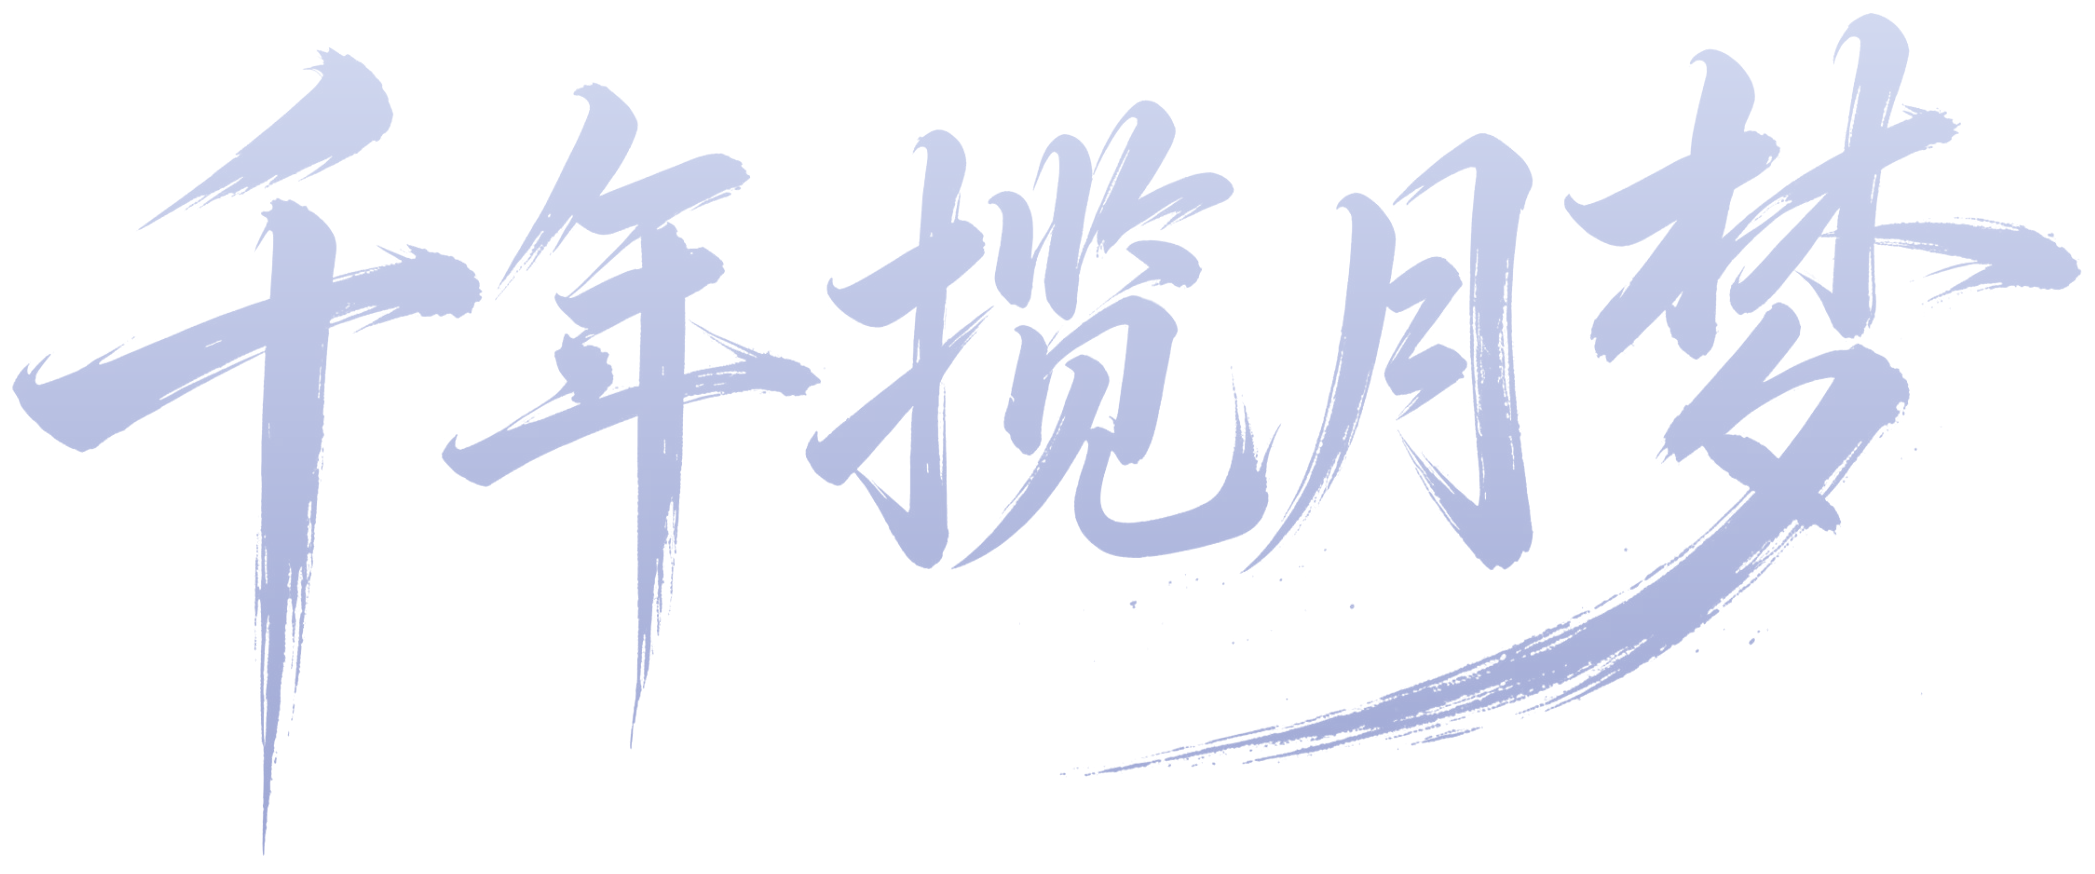
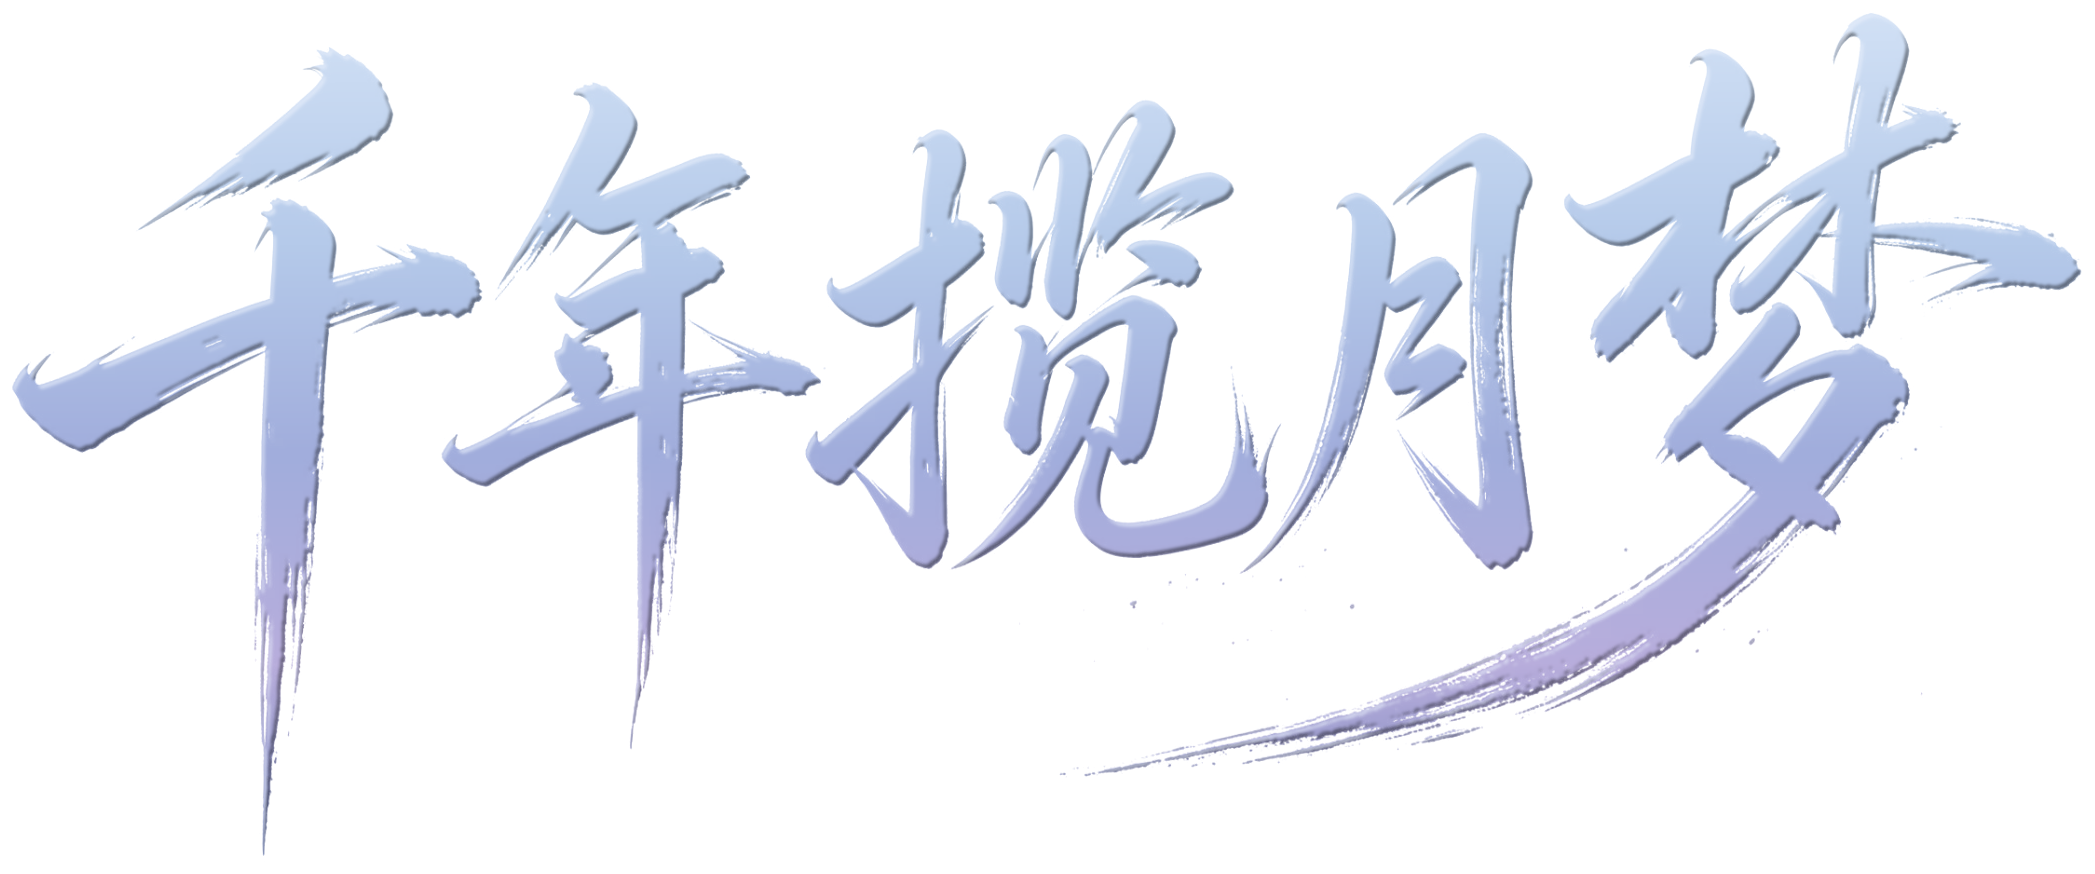
Add moonlit gradient, fine bevel and soft depth to title and journey button

diff --git a/game.js b/game.js
@@ -16,7 +16,7 @@
  function save(){saved={version:3,index,stepId:STORY[index].id,completed:[...completed].map(n=>STORY[n].id),mission:{...mission}};try{localStorage.setItem(SAVE,JSON.stringify(saved))}catch{}}
  function enter(mode){cleanup();cleanup=()=>{};view=mode;app.dataset.mode=mode;main.innerHTML='';window.scrollTo(0,0)}
  function footer(chapter){$('#location').textContent=LOCATIONS[World.scene];$('#chapter-label').textContent=chapter===undefined?'东方月境 · 互动叙事':`第${nums[chapter]}章 · ${CHAPTERS[chapter].split('，')[0]}`;$('#chapter-progress').innerHTML=chapter===undefined?'':nums.map((n,i)=>`<i class="${i<=chapter?'active':''}" aria-label="第${n}章"></i>`).join('');$('#page-count').textContent=chapter===undefined?'一场跨越千年的赴约':`${index+1} / ${STORY.length}`}
- function home(){enter('home');World.set('cover');footer();$('#page-count').textContent='中国探月历程 · 虚构互动叙事';const finished=completed.has(STORY.length-1);main.innerHTML=`<section class="home"><h1 class="home-title"><img src="assets/ui/title-calligraphy.webp?v=moon-ink-20261016" alt="千年揽月梦" width="2095" height="874" fetchpriority="high" draggable="false"></h1><div class="actions"><button class="primary" id="start">${finished?'再赴星河':saved?'继续旅程':'开启旅程'}<svg class="journey-moon" viewBox="0 0 24 24" aria-hidden="true"><path d="M16.8 3.6A9 9 0 1 0 20.4 17 8.2 8.2 0 0 1 16.8 3.6Z"/></svg></button>${saved&&!finished?'<button class="text-button" id="restart">从头开始</button>':''}</div></section>`;
+ function home(){enter('home');World.set('cover');footer();$('#page-count').textContent='中国探月历程 · 虚构互动叙事';const finished=completed.has(STORY.length-1);main.innerHTML=`<section class="home"><h1 class="home-title"><img src="assets/ui/title-calligraphy.webp?v=moon-relief-20261016" alt="千年揽月梦" width="2095" height="874" fetchpriority="high" draggable="false"></h1><div class="actions"><button class="primary" id="start">${finished?'再赴星河':saved?'继续旅程':'开启旅程'}<svg class="journey-moon" viewBox="0 0 24 24" aria-hidden="true"><path d="M16.8 3.6A9 9 0 1 0 20.4 17 8.2 8.2 0 0 1 16.8 3.6Z"/></svg></button>${saved&&!finished?'<button class="text-button" id="restart">从头开始</button>':''}</div></section>`;
   $('#start').onclick=()=>{if(finished){restart();return}index=saved?saved.index:0;render()};if($('#restart'))$('#restart').onclick=restart;
  }
  function restart(){index=0;mission={zone:0};completed.clear();save();render()}

diff --git a/style.css b/style.css
@@ -33,11 +33,13 @@ body .app{position:relative;z-index:1}
 
 /* 首页只保留主标题、旅程按钮与声音开关。 */
 .home-title{width:min(900px,76vw);max-width:100%;line-height:0;margin:0 auto 34px}
-.home-title img{display:block;width:100%;height:auto;filter:drop-shadow(0 3px 12px #100b26aa)}
+.home-title img{display:block;width:100%;height:auto;filter:drop-shadow(0 2px 0 #455478b3) drop-shadow(0 6px 7px #0b173c80) drop-shadow(0 0 16px #bed4ff18)}
 .app[data-mode=home] main{min-height:0;align-items:center}
 .home .actions{justify-content:center}
 .home #start{min-width:206px;gap:24px;padding:14px 28px;background:linear-gradient(110deg,#182943a6,#29375170);border:1px solid #c6d2ef70;border-radius:3px;color:#d6dff3;font-family:"Songti SC","STSong","SimSun",serif;letter-spacing:.18em;text-shadow:0 1px 5px #101c36;box-shadow:inset 0 1px 0 #e0e8ff12,0 4px 20px #08152930;transition:background .25s,border-color .25s,box-shadow .25s}
-.home #start:hover:not(:disabled){background:linear-gradient(110deg,#273d5cba,#38476790);border-color:#d7e1f8b0;box-shadow:0 0 20px #a5bde91c;transform:none}
+.home #start{background:linear-gradient(165deg,#64789585 0%,#344768aa 42%,#24304fa6 72%,#4a496780 100%);border-color:#c6d2ef80;box-shadow:inset 0 1px 0 #e0e8ff40,inset 0 -2px 3px #0a163e55,0 3px 0 #17243f80,0 8px 20px #08152950}
+.home #start:hover:not(:disabled){background:linear-gradient(165deg,#7a8eaaa0,#3d5276bb 48%,#535273a0);border-color:#d7e1f8b0;box-shadow:inset 0 1px 0 #e0e8ff55,inset 0 -2px 3px #0a163e44,0 3px 0 #17243f80,0 8px 22px #08152960;transform:none}
+.home #start:active:not(:disabled){box-shadow:inset 0 2px 5px #0a163e66,0 2px 10px #08152940}
 .journey-moon{width:22px;height:22px;flex:none;fill:#c3cee82b;stroke:#d1dbef;stroke-width:1.25;stroke-linejoin:round}
 .home #restart{color:#c1cce3;font-family:"Songti SC","STSong","SimSun",serif}
 @media(max-width:800px){.home{padding:0 0 28px}.home-title{width:100%;margin-bottom:30px}}

diff --git a/index.html b/index.html
@@ -6,7 +6,7 @@
   <meta name="theme-color" content="#100d24">
   <meta name="description" content="给月亮送一封人间的回信。取意中国探月历程的虚构互动叙事。">
   <title>千年揽月梦 · 互动叙事</title>
-  <link rel="stylesheet" href="style.css?v=moon-button-20261016">
+  <link rel="stylesheet" href="style.css?v=moon-relief-20261016">
   <link rel="stylesheet" href="minigames.css?v=sample-guide-20261016">
 </head>
 <body>
@@ -23,6 +23,6 @@
   <script src="scenes.js?v=lander-ready-20261016"></script>
   <script src="game-rules.js?v=preload-lite-20261016"></script>
   <script src="minigames.js?v=lander-ready-20261016"></script>
-  <script src="game.js?v=moon-button-20261016"></script>
+  <script src="game.js?v=moon-relief-20261016"></script>
 </body>
 </html>
